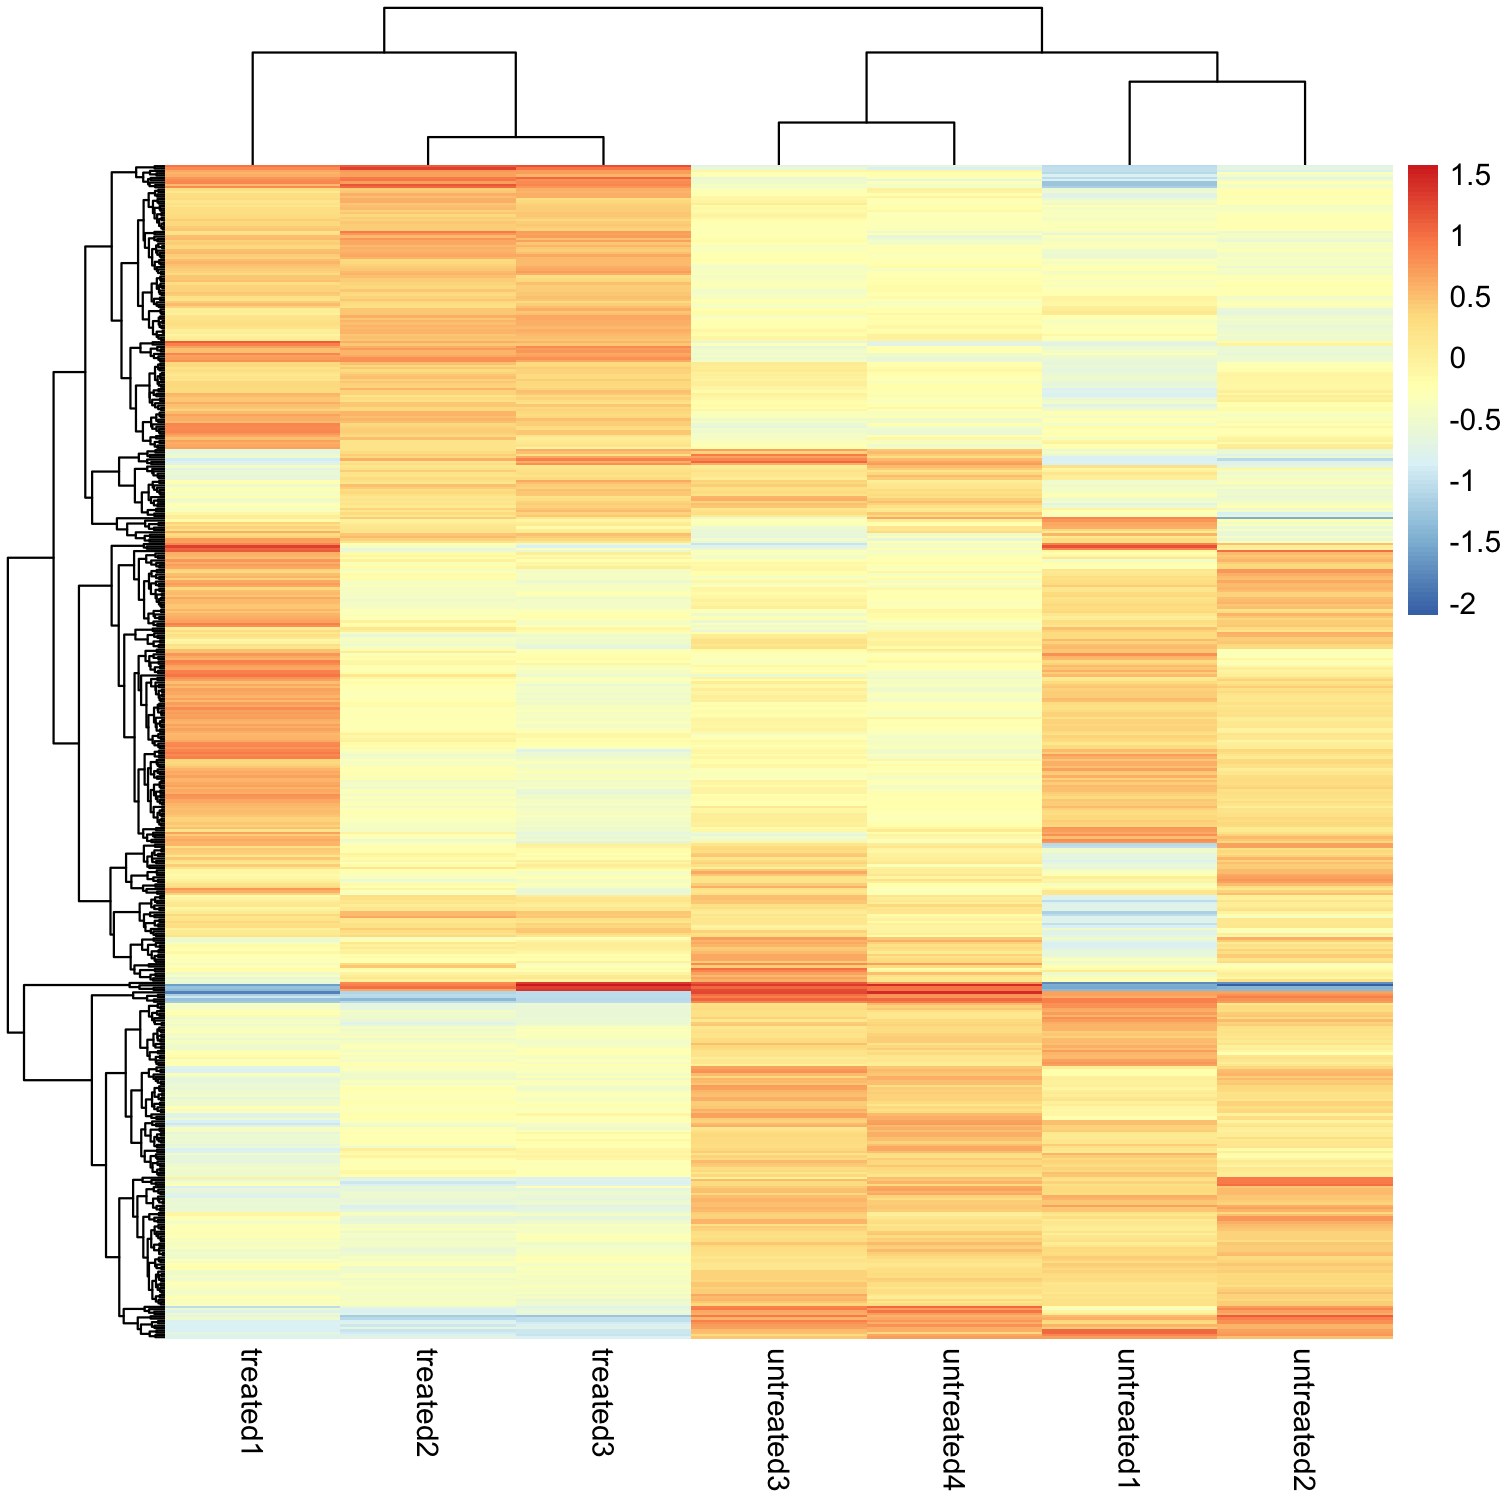
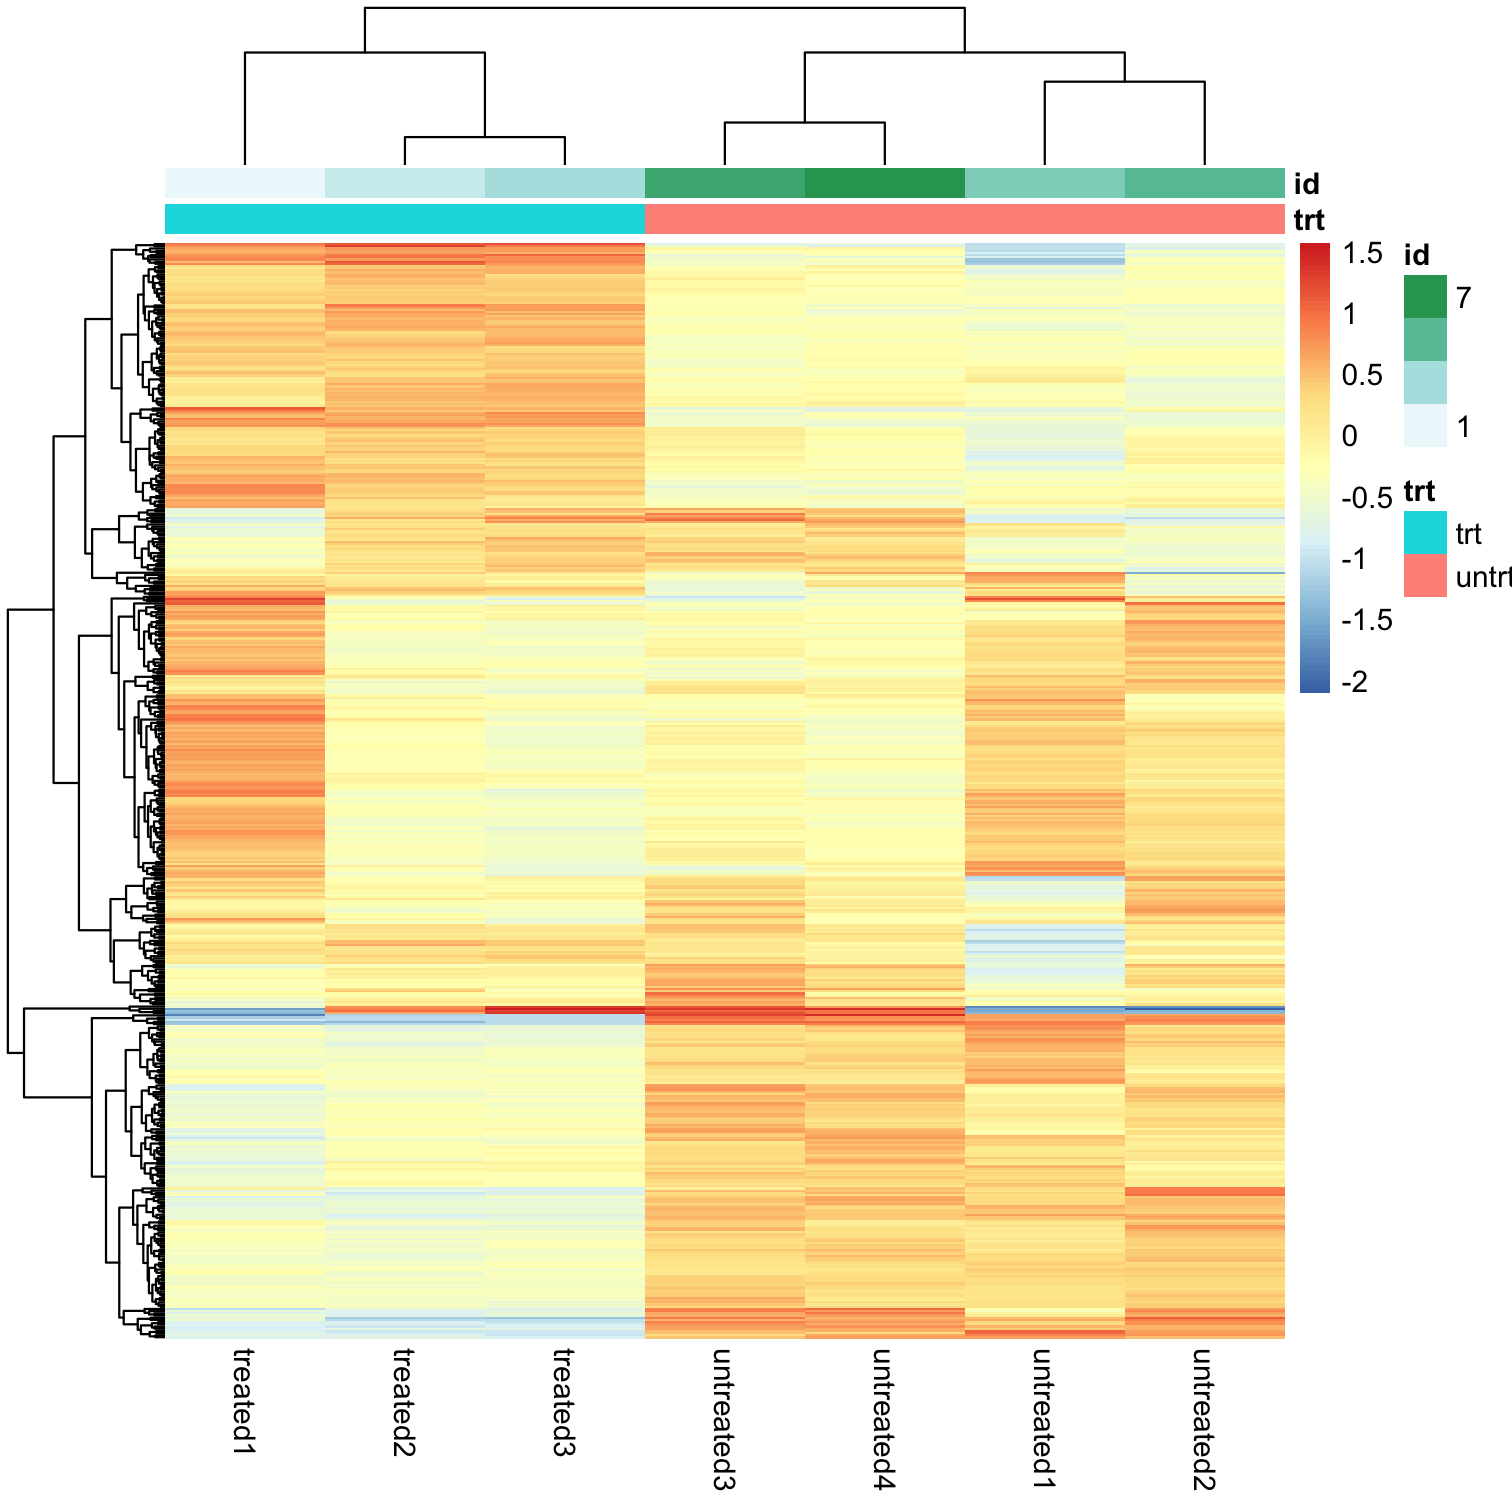
update heatmap

diff --git a/04-ggplot/04_ggplot_slides.html b/04-ggplot/04_ggplot_slides.html
@@ -2977,9 +2977,14 @@ name:heatmap
 
 # Heatmap with `pheatmap::pheatmap()`
 
-.pull-left[
+It's possible to make heatmaps in ggplot2 with `geom_tile()`, but there are many other better functions using base R that cluster and annotate the data. This is using `pheatmap` package.
+
+.pull-left-60[
+We need to create the data:
+
 
 ```r
+# select expression data
 pasilla_heat &lt;- pasilla_data %&gt;%
   select(treated1:untreated4)
 # subtract off gene-specific means
@@ -2987,31 +2992,57 @@ pasilla_heat &lt;- pasilla_heat - rowMeans(pasilla_heat)
 # calculate standard deviation of each centered gened
 sd_gene &lt;- apply(pasilla_heat,1,sd)
 # select top 500 most variable
-pasilla_heat &lt;- pasilla_heat[order(sd_gene, decreasing = TRUE)[1:500],]
-head(pasilla_heat)
-```
+pasilla_heat &lt;- 
+  pasilla_heat[order(sd_gene, decreasing = TRUE)[1:500],]
 
+# create annotation data
+pasilla_col &lt;- data.frame(
+  trt = factor(c(rep("trt",3), rep("untrt",4))),
+  id = 1:7,
+  row.names=colnames(pasilla_heat))
 ```
-       treated1   treated2  treated3 untreated1 untreated2 untreated3
-2390 -1.5997691  0.8713581  1.568570 -1.5006560 -2.1033425   1.338488
-521  -1.3218267  0.9954861  1.278523 -1.5210730 -1.4256886   1.040472
-7886 -0.5901012  0.8225366  1.339219 -1.7627544 -1.7018289   1.155933
-7668 -1.3935481  0.6383422  1.366950 -1.3935481 -1.3935481   1.207422
-1861 -1.8223610 -1.1310619 -1.067572  0.6643273  0.6548635   1.250505
-6643 -1.3260796 -1.3839344 -1.110418  0.9075517  0.7899272   1.087418
-     untreated4
-2390  1.4253512
-521   0.9541077
-7886  0.7369965
-7668  0.9679303
-1861  1.4512988
-6643  1.0355348
-```
-
+]
+.pull-right-40[
 
 ```r
-pheatmap::pheatmap(mat = pasilla_heat,
-                   show_rownames = FALSE)
+head(pasilla_heat, n = 3)
+```
+
+```
+       treated1  treated2 treated3 untreated1 untreated2 untreated3 untreated4
+2390 -1.5997691 0.8713581 1.568570  -1.500656  -2.103343   1.338488  1.4253512
+521  -1.3218267 0.9954861 1.278523  -1.521073  -1.425689   1.040472  0.9541077
+7886 -0.5901012 0.8225366 1.339219  -1.762754  -1.701829   1.155933  0.7369965
+```
+
+```r
+pasilla_col
+```
+
+```
+             trt id
+treated1     trt  1
+treated2     trt  2
+treated3     trt  3
+untreated1 untrt  4
+untreated2 untrt  5
+untreated3 untrt  6
+untreated4 untrt  7
+```
+
+]
+
+---
+# Heatmap with `pheatmap::pheatmap()`
+
+.pull-left[
+
+```r
+pheatmap::pheatmap(
+  mat = pasilla_heat,
+  show_rownames = FALSE,
+  annotation_col = pasilla_col
+)
 ```
 ]
 .pull-right[
